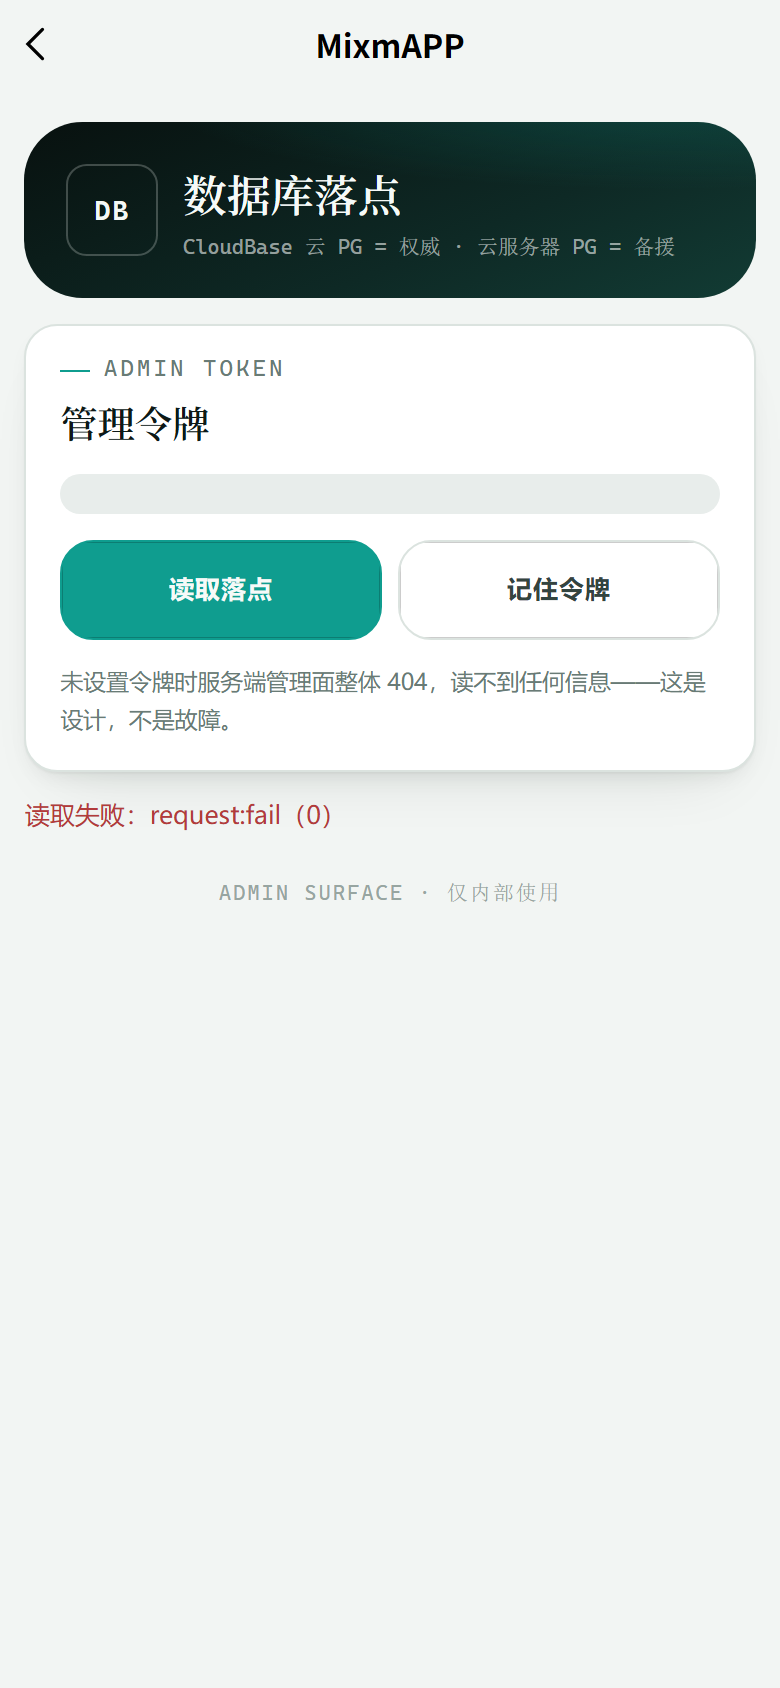
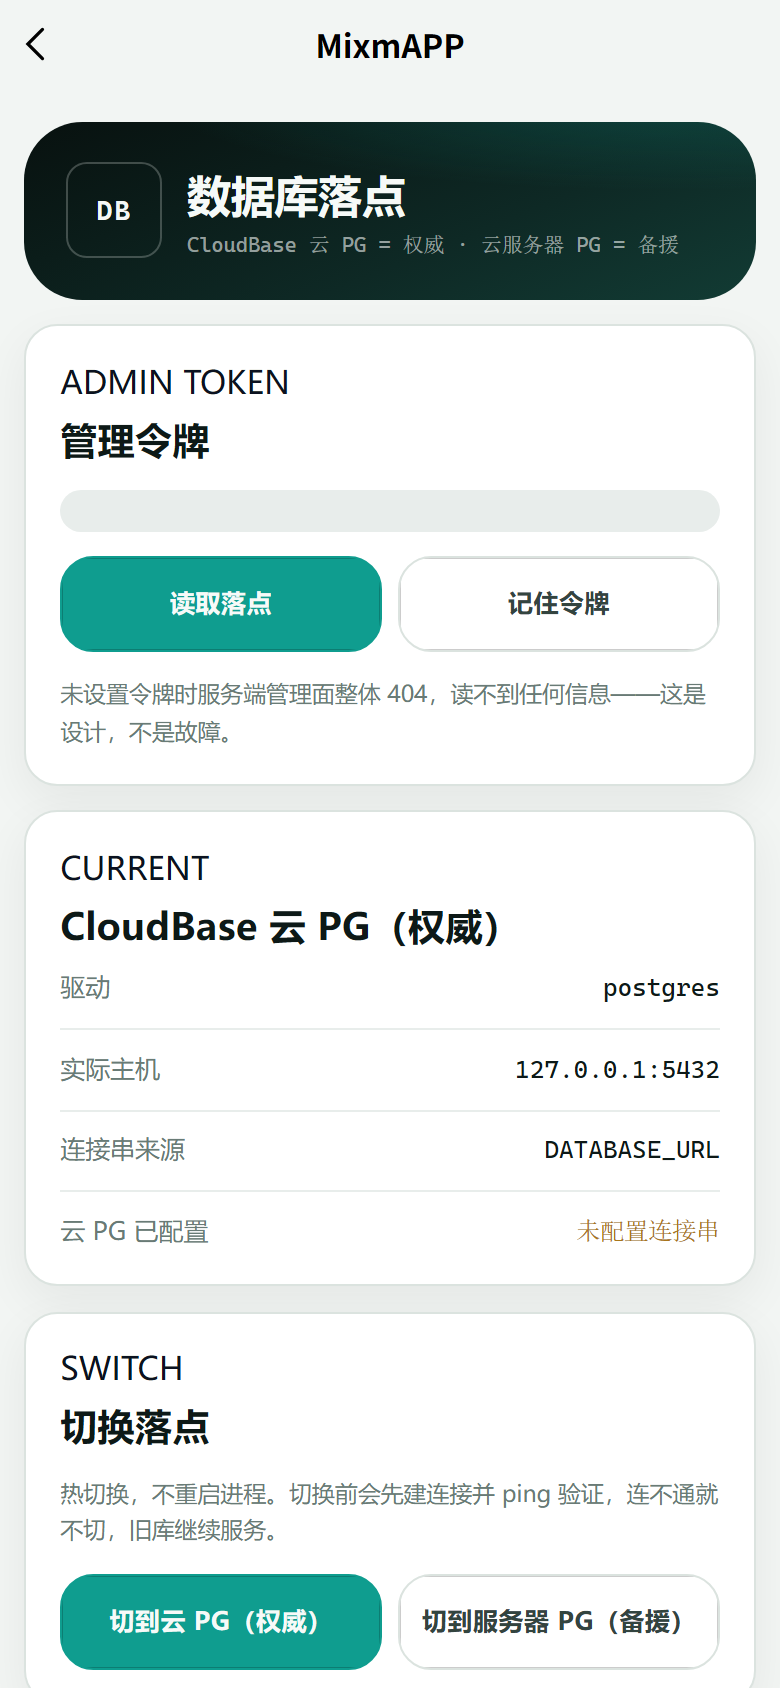
docs(verify): §15 超时取消线上实证、APP 内管理后台取证与两处判定坑

diff --git a/docs/07-free-platform-verification.md b/docs/07-free-platform-verification.md
@@ -405,3 +405,75 @@ cancelled 且库存归位）。
 但连接串只在 CloudBase 控制台可见，MCP 不回传。填进 `api.env` 后，带令牌调
 `POST /admin/db/switch {"target":"cloudbase"}` 即可热切，切成功判据是 `/healthz` 的
 `dbSource` 变成 `DATABASE_URL_CLOUDBASE`、`dbHost` 变成云 PG 地址。
+## 15. 超时取消的线上实证 + APP 内管理后台（2026-11-12）
+
+### 15.1 为什么还要专门跑一次
+
+14 章的超时取消只被单元测试覆盖（内存 Store，把 `now` 往后拨）。生产上真正危险的是
+「扫描和支付同时发生」和「库存归还重复执行」，这两点在内存测试里看不出来。所以临时把
+线上 TTL 压到 1 分钟，跑真实链路，跑完立刻恢复默认 30。
+
+### 15.2 做法与结果
+
+1. `api.env` 追加 `ORDER_TTL_MINUTES=1`，`systemctl restart mixmapp-api`；
+2. 探针脚本：注册新账号 → 读商品库存 → 下单 1 件 → 等 70s → `POST /api/v1/admin/orders/sweep`
+   → 读订单状态与库存；
+3. 取证（订单号 `MOMWDN2Q1E798913`）：
+
+```text
+[1] 商品 MixmAPP 首发限定礼盒 库存 before=120
+[2] 注册成功 accountNo=MixmAPP-035J-JMK3-R000-0
+[3] 下单 MOMWDN2Q1E798913 后库存 after=119（比 before 少 1）
+[5] sweep → ttlMinutes=1 取消 1 单：["MOMWDN2Q1E798913"]
+[6] 订单状态 status=cancelled
+[7] 库存：sweep 前 119 → sweep 后 120（本单取消 +1）
+✓ TTL 取消 + 库存归还 在线上成立（+1 与本单取消数量一致）
+```
+
+4. 随后删掉 `ORDER_TTL_MINUTES` 行、重启，`/healthz` 恢复 `dbTarget=cloudbase` / `dbHost=127.0.0.1:5432`，
+   线上 TTL 回到默认 30 分钟。
+
+### 15.3 两条真实的判定经验（写进脚本，避免下次误判）
+
+- **不能断言「库存回到下单前」**。库里还躺着历史遗留的待支付订单（历次验收只下单不付款），
+  它们会被同一轮扫描批量取消，库存一次多补好几件，看起来像「归还错了」。
+  正确判据是：`sweep` 返回的 `cancelled` 里含本单，且库存增量 = 本单取消的数量（±1 核对）。
+- **第一次跑真的踩到了**：before=117、下单后 116、sweep 后 120。多出来的 3 件正是三轮历史
+  验收遗留的 pending 单被同一扫描顺带取消。行为是对的，断言是错的。
+
+### 15.4 APP 内管理后台
+
+`apps/app/src/pages/admin/index`（`pages.json` 已注册，`pages/settings/about` 有入口）：
+
+| 能力 | 实现 |
+| --- | --- |
+| 令牌 | 输入后只存本机 `mixmapp:adminToken`；服务端 `ADMIN_TOKEN` 才是权威 |
+| 读落点 | `GET /admin/db`，展示 target / host / source / 云 PG 是否已配置 |
+| 热切换 | `POST /admin/db/switch`，两个按钮切 cloudbase / server |
+| 手动扫单 | `POST /admin/orders/sweep`，显示本次取消数量与 TTL |
+
+`apiRequest` 增加 `headers` 入参承载 `x-admin-token`；页面样式不依赖全局 SCSS 令牌（写死字面量），
+避免被其他分支的设计令牌改动牵连。
+
+线上取证（GitHub Pages，`/MixmAPP/pages/admin/index`，390×844 手机视口）：
+
+```text
+titles: 管理令牌 / CloudBase 云 PG（权威） / 切换落点 / 超时订单扫描
+rows:   驱动 postgres ｜ 实际主机 127.0.0.1:5432 ｜ 连接串来源 DATABASE_URL ｜ 云 PG 已配置：未配置连接串
+```
+
+这与 `/healthz` 完全一致：权威落点已声明为 cloudbase，但 `DATABASE_URL_CLOUDBASE` 仍缺值，
+所以实际仍落在云服务器自建 PG。管理页把这个「声明与实际」的差异直接摆在界面上，不需要再 SSH 查。
+
+### 15.5 顺手修掉的一个预览坑
+
+`scripts/serve-h5.mjs` 的代理原来用 `new URL(req.url, API_ORIGIN)`，当 `API_ORIGIN` 带路径前缀
+（线上是 `https://cloud.mixm.top/mixmapp`）时前缀会被丢掉，请求打到 `https://cloud.mixm.top/api/v1/...`
+而不是 `/mixmapp/api/v1/...`。已改为拼接 `base + req.url`，本地预览可直接打线上 API。
+
+### 15.6 截图法的一个坑（避免再次误判成 CSS 溢出）
+
+Edge 无头模式的 `--window-size=430,932` 会被钳制到约 492 CSS px 宽，但 `--screenshot` 仍按 430 裁图，
+于是页面右侧看起来「被截断」，很容易误判成布局溢出。用 CDP 的
+`Emulation.setDeviceMetricsOverride` 精确设视口（390×844、DPR=2）再 `Page.captureScreenshot`，
+量出来的 `innerWidth` 与页面元素 `getBoundingClientRect()` 才是可信的。
